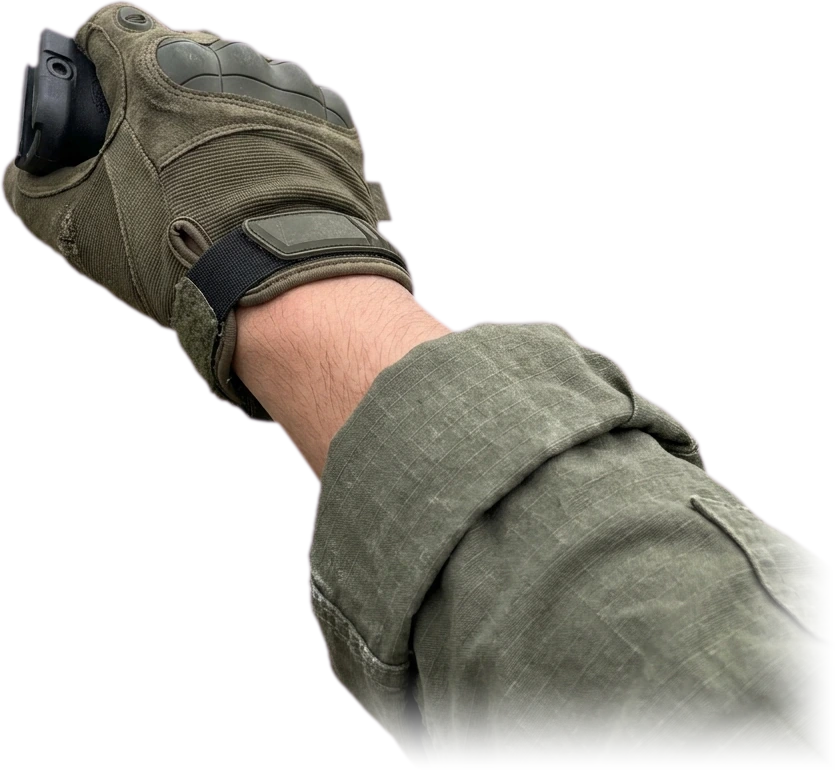
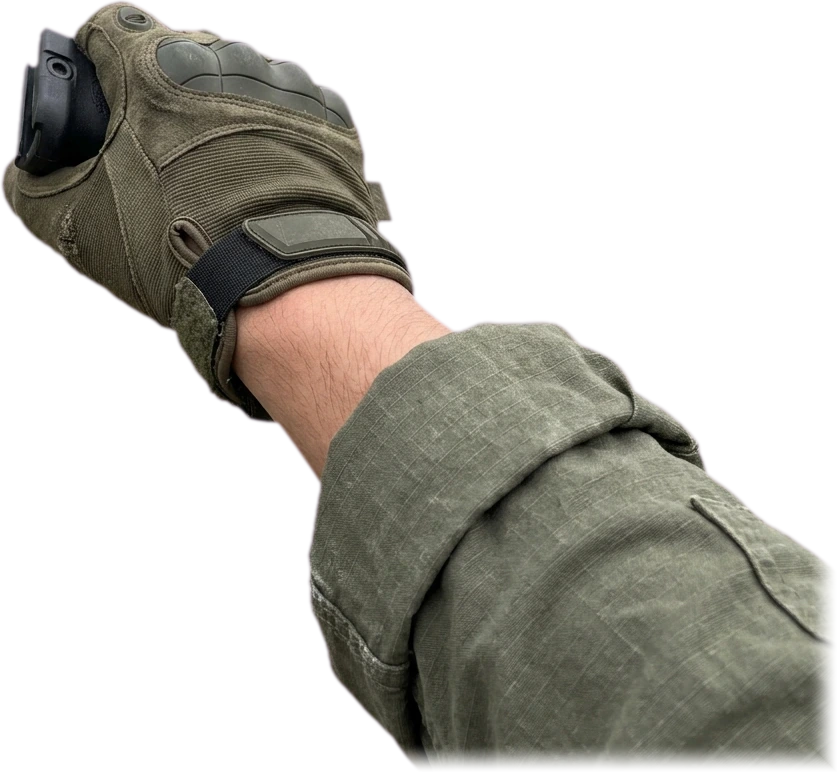
FPS 모바일 겹침·멈칫 해결, 저격총을 완전히 다른 총(사진 볼트액션)으로, 팔 소매 잘림 수정
모바일 HUD 겹침 — 폰 에뮬(iPhone 13·Galaxy S9+·iPad Mini 가로)에서 버튼·패널
좌표 교집합을 실측해 전부 0으로.
- 새로 넣은 «자동 달리기» 버튼이 태블릿에서 체력 패널을 덮던 것 → 조이스틱 오른쪽 아래로.
- 원본부터 폰에 있던 겹침 3개(점프↔전체맵, 일시정지↔체력, 미니맵↔무기)도 함께 정리.

모바일 멈칫 — 평균 FPS는 원본과 같았고 «순간 멈칫»이 문제였다(CPU×4 폰 에뮬, 3회 중앙값).
  게임시작 1033→267ms · 첫사격 33→67 · 첫조준 33→50 · 무기교체 83→67 · 평상 17→17
- 첫 사격 프로파일: renderer.compile()만으로는 링크 확인이 «첫 실제 그리기»로 미뤄졌다
  → 로딩 중 숨은 총·화염·탄피·먼지·탄흔을 켜고 한 번 실제로 그린다(메뉴가 가려 안 보임).
- renderer.debug.checkShaderErrors를 배포판에서 끔(프로그램마다 GPU 동기 대기). ?debug만 켬.
- 총알 궤적마다 새 재질 → 공유 재질 하나. 매 발 sprite needsUpdate(불필요) 제거.
- 폰: M4 PBR 2048² 네 장(GPU 85MB) → 1024² 두 장·거칠기/금속은 값, 뷰모델 환경맵 생략,
  벽·바닥 bumpMap 제거.
- 원본에도 사격 중 ~370ms 튐과 병사 팔 IK 비용이 같게 있었다(기준판 프로파일로 확인) — 회귀 아님.

저격총 — M4 몸통 재활용을 버리고 «처음 판처럼 완전히 다른 총»으로.
- 빠나나로 탄색 볼트액션·대형 조준경 실사 사진 생성 → 오프라인 매팅(자주색 0픽셀).
- 생성본에 실제 상표(NF)가 박혀 나와 지웠고, 총구가 반대라 좌우 반전 후 포탑 숫자를 흐렸다.
- 사진 팔 두 장을 손잡이·앞총대에 붙이고 총구 화염 위치를 사진 총구에 맞췄다(발사 캡처로 확인).

팔 소매 — 사진 끝에서 흐려지며 잘려 보이던 것: 가장자리 페이드를 소매 나가는 쪽만 4%로.
(가장자리 픽셀을 늘려 붙이는 방식은 납작한 판자가 생겨 버렸다)

진단 기록: prewarm 결과를 dataset.prewarm에 남긴다 — 조용한 catch가 «안 돌았음»을 숨기지 않게.

Changed region(s): [[0.4029, 0.6822, 0.9917, 0.9922]]

diff --git a/public/fps/client.js b/public/fps/client.js
@@ -1,21 +1,21 @@
-import {polishDepot} from './visual-polish.js?v=photo-4';
-import {upgradeDepot} from './depot-upgrade.js?v=photo-4';
-import {createTacticalMap} from './tactical-map.js?v=photo-4';
-import {createCombatFeedback} from './combat-feedback.js?v=photo-4';
-import {Recoil} from './recoil.js?v=photo-4';
+import {polishDepot} from './visual-polish.js?v=warm-3';
+import {upgradeDepot} from './depot-upgrade.js?v=warm-3';
+import {createTacticalMap} from './tactical-map.js?v=warm-3';
+import {createCombatFeedback} from './combat-feedback.js?v=warm-3';
+import {Recoil} from './recoil.js?v=warm-3';
 const recoilMotion=new Recoil();
-import {createWeaponAudio} from './weapon-audio.js?v=photo-4';
+import {createWeaponAudio} from './weapon-audio.js?v=warm-3';
 const weaponAudio=createWeaponAudio();
 const combatFeedback=createCombatFeedback(weaponAudio);
-import {createControls} from './controls.js?v=photo-4';
-import {createHuman} from './human.js?v=photo-4';
-import {createViewmodel3D} from './viewmodel3d.js?v=photo-4';
-import {createImpacts} from './impacts.js?v=photo-4';
+import {createControls} from './controls.js?v=warm-3';
+import {createHuman} from './human.js?v=warm-3';
+import {createViewmodel3D} from './viewmodel3d.js?v=warm-3';
+import {createImpacts} from './impacts.js?v=warm-3';
 import {enhanceDepot} from './environment.js';
 import * as T from './three.module.js';
-import {Arena,BOXES,clamp,rayBox,wallDistance} from './core.js?v=photo-4';
-const $=s=>document.getElementById(s);let mode='tdm',arena=null,ws=null,myId='',state=null,active=false,yaw=0,pitch=0,fire=false,aim=false,last=performance.now(),acc=0,lastHP=100,feed=[],hitUntil=0,frame=0;const mobile=matchMedia('(pointer: coarse)').matches||navigator.maxTouchPoints>0&&innerWidth<1100;const keys={};$('practice').disabled=true;$('online').disabled=true;T.DefaultLoadingManager.onProgress=(url,n,total)=>{$('status').textContent=`전장 에셋 불러오는 중 ${n} / ${total}`};T.DefaultLoadingManager.onLoad=()=>{$('practice').disabled=false;$('online').disabled=false;$('status').textContent='전투 준비 완료 · 모바일 자동 달리기 / PC WASD'};
-let renderer;try{renderer=new T.WebGLRenderer({canvas:$('scene'),antialias:!mobile})}catch(error){$('status').textContent='3D 그래픽을 시작할 수 없습니다. 브라우저의 하드웨어 가속을 켜고 다시 접속하세요.';throw error}renderer.setPixelRatio(Math.min(devicePixelRatio,mobile?1:1.25));renderer.setSize(innerWidth,innerHeight);renderer.shadowMap.enabled=!mobile;renderer.shadowMap.type=T.PCFShadowMap;renderer.toneMapping=T.ACESFilmicToneMapping;renderer.toneMappingExposure=1.24;
+import {Arena,BOXES,clamp,rayBox,wallDistance} from './core.js?v=warm-3';
+const $=s=>document.getElementById(s);let mode='tdm',arena=null,ws=null,myId='',state=null,active=false,yaw=0,pitch=0,fire=false,aim=false,last=performance.now(),acc=0,lastHP=100,feed=[],hitUntil=0,frame=0;const mobile=matchMedia('(pointer: coarse)').matches||navigator.maxTouchPoints>0&&innerWidth<1100;const keys={};$('practice').disabled=true;$('online').disabled=true;T.DefaultLoadingManager.onProgress=(url,n,total)=>{$('status').textContent=`전장 에셋 불러오는 중 ${n} / ${total}`};T.DefaultLoadingManager.onLoad=()=>{/* 셰이더를 전투 중이 아니라 로딩 화면에서 컴파일 — 첫 사격·첫 조준 멈칫 제거 */try{const warmLine=new T.Line(new T.BufferGeometry().setFromPoints([new T.Vector3(0,1,0),new T.Vector3(0,1,-1)]),tracerMat);scene.add(warmLine);impacts.prewarm(renderer,scene,camera);scene.remove(warmLine);warmLine.geometry.dispose();viewmodel.prewarm();document.documentElement.dataset.prewarm='ok'}catch(e){document.documentElement.dataset.prewarm='err:'+(e&&e.message)}document.documentElement.dataset.prewarmRuns=String((+document.documentElement.dataset.prewarmRuns||0)+1);$('practice').disabled=false;$('online').disabled=false;$('status').textContent='전투 준비 완료 · 모바일 자동 달리기 / PC WASD'};
+let renderer;try{renderer=new T.WebGLRenderer({canvas:$('scene'),antialias:!mobile})}catch(error){$('status').textContent='3D 그래픽을 시작할 수 없습니다. 브라우저의 하드웨어 가속을 켜고 다시 접속하세요.';throw error}renderer.setPixelRatio(Math.min(devicePixelRatio,mobile?1:1.25));/* 셰이더 오류 검사는 프로그램마다 GPU를 동기로 기다리게 한다 — 첫 사격 멈칫(프로파일: getProgramInfoLog 166ms)의 원인. 배포판은 끄고 ?debug 에서만 켠다 */renderer.debug.checkShaderErrors=location.search.includes('debug');renderer.setSize(innerWidth,innerHeight);renderer.shadowMap.enabled=!mobile;renderer.shadowMap.type=T.PCFShadowMap;renderer.toneMapping=T.ACESFilmicToneMapping;renderer.toneMappingExposure=1.24;
 const scene=new T.Scene();scene.background=new T.Color('#7a929d');scene.fog=new T.FogExp2('#8998a1',.008);const camera=new T.PerspectiveCamera(78,innerWidth/innerHeight,.05,170);camera.rotation.order='YXZ';scene.add(camera);// 그림자를 켜면 지붕 아래가 통째로 그늘이 된다. 그늘에서도 읽히도록 환경광을 올린다.
 scene.add(new T.HemisphereLight('#dceaff','#5d5b46',2.95));const sun=new T.DirectionalLight('#ffe5b0',3.1);sun.position.set(-18,30,16);sun.castShadow=true;sun.shadow.mapSize.set(mobile?1024:2048,mobile?1024:2048);// 그림자 상자를 좁게 잡고 플레이어를 따라 옮긴다. 맵 전체(±35)를 한 장에 담으면 텍셀이 굵어 접지가 뭉갠다.
 Object.assign(sun.shadow.camera,{left:-19,right:19,top:19,bottom:-19,near:1,far:78});sun.shadow.bias=-.0009;sun.shadow.normalBias=.02;scene.add(sun);scene.add(sun.target);const SUN_OFFSET=new T.Vector3(-16,26,14);
@@ -26,12 +26,12 @@ function box(w,h,d,mat,x,y,z,parent=scene){let m=new T.Mesh(new T.BoxGeometry(w,
 box(50,.3,54,'ground',0,-.16,0);for(const b of BOXES){box(b[3],b[4],b[5],b[6],b[0],b[1],b[2]);if(['blue','red','olive'].includes(b[6])){for(let x=-b[3]/2+.15;x<b[3]/2;x+=.45)for(let side of [-1,1])box(.065,b[4]-.16,.06,'metal',b[0]+x,b[1],b[2]+side*(b[5]/2+.02));for(let z=-b[5]/2+.15;z<b[5]/2;z+=.45)for(let side of [-1,1])box(.06,b[4]-.16,.065,'metal',b[0]+side*(b[3]/2+.02),b[1],b[2]+z);for(let s of [-1,1])box(b[3]+.1,.12,b[5]+.1,'metal',b[0],b[1]+s*b[4]/2,b[2]);}if(b[6]==='crate')for(let s of [-1,1])box(b[3]+.04,.15,b[5]+.04,'tan',b[0],b[1]+s*(b[4]/2-.3),b[2]);}
 for(let z=-24;z<25;z+=6){box(.25,8,.25,'metal',-22,4,z);box(.25,8,.25,'metal',22,4,z);box(45,.25,.25,'metal',0,8,z)}box(13,.2,52,'metal',-17,8.1,0);box(13,.2,52,'metal',17,8.1,0);const lamp=new T.MeshBasicMaterial({color:'#fff0bc'});for(let z=-22;z<24;z+=8)for(let x of [-17,17])box(1.3,.04,.13,lamp,x,7.85,z);for(let z=-24;z<24;z+=3)for(let x of [-4,4])box(.1,.014,1.4,'tan',x,.01,z);
 function label(text,x,z){const c=document.createElement('canvas');c.width=256;c.height=128;const ctx=c.getContext('2d');ctx.fillStyle='#273536';ctx.fillRect(0,0,256,128);ctx.font='bold 52px Arial';ctx.fillStyle='#c4d2bd';ctx.textAlign='center';ctx.fillText(text,128,86);let m=new T.Mesh(new T.PlaneGeometry(3,1.5),new T.MeshBasicMaterial({map:new T.CanvasTexture(c),side:T.DoubleSide}));m.position.set(x,2,z);scene.add(m)}label('SECTOR A',-10,-2.96);label('SECTOR B',10,15.04);
-enhanceDepot(scene,mats,box,BOXES);upgradeDepot(scene,mats,box,BOXES);polishDepot(scene,mats,box,BOXES);let lightIndex=0;for(const light of [...scene.children])if(light.isPointLight&&(mobile||lightIndex++%3!==0))scene.remove(light);if(mobile)scene.environment=null;
+enhanceDepot(scene,mats,box,BOXES);upgradeDepot(scene,mats,box,BOXES);polishDepot(scene,mats,box,BOXES);/* 폰은 벽·바닥 요철을 뺀다 — 화면 전체 픽셀마다 미분 계산이 붙어 GPU를 먹는다 */if(mobile){for(const k in mats)if(mats[k].bumpMap){mats[k].bumpMap=null;mats[k].needsUpdate=true}}let lightIndex=0;for(const light of [...scene.children])if(light.isPointLight&&(mobile||lightIndex++%3!==0))scene.remove(light);if(mobile)scene.environment=null;
 // Batch repeated static warehouse parts without changing cover geometry.
 const batches=new Map();for(let mesh of [...scene.children]){if(!mesh.isMesh||mesh.geometry.type!=='BoxGeometry'||mesh.material.transparent)continue;let key=mesh.material.uuid+JSON.stringify(mesh.geometry.parameters);if(!batches.has(key))batches.set(key,[]);batches.get(key).push(mesh)}for(let list of batches.values()){if(list.length<3)continue;let batch=new T.InstancedMesh(list[0].geometry,list[0].material,list.length);list.forEach((mesh,i)=>{mesh.updateMatrix();batch.setMatrixAt(i,mesh.matrix);scene.remove(mesh);if(i>0)mesh.geometry.dispose()});batch.castShadow=true;batch.receiveShadow=true;batch.computeBoundingSphere();scene.add(batch)}
 
 // 총과 총구 화염은 viewmodel3d.js가 전용 씬에서 그린다. 여기엔 두지 않는다.
-const impacts=createImpacts(scene);
+const impacts=createImpacts(scene);const tracerMat=new T.LineBasicMaterial({color:'#ffe9a0',transparent:true,opacity:.85,blending:T.AdditiveBlending,depthWrite:false});
 const models=new Map(),traces=[];
 
 function nameTag(p){let c=document.createElement('canvas');c.width=256;c.height=64;let ctx=c.getContext('2d');ctx.fillStyle='#091014b0';ctx.fillRect(0,0,256,64);ctx.font='bold 25px Arial';ctx.fillStyle=p.team===0?'#ffac9e':'#a4d8ff';ctx.textAlign='center';ctx.fillText(p.name,128,42);let sprite=new T.Sprite(new T.SpriteMaterial({map:new T.CanvasTexture(c),depthTest:true}));sprite.scale.set(1.3,.325,1);sprite.position.y=2.05;return sprite;}function soldier(p){let tag=nameTag(p);tag.scale.set(1.8,.45,1);tag.position.y=2.2;let g=createHuman(p,tag);if(!g){tag.material.map.dispose();tag.material.dispose();return null}scene.add(g);models.set(p.id,g);return g}
@@ -48,7 +48,7 @@ let lookDX=0,lookDY=0; // 이번 프레임에 돌린 시선량. 총이 뒤따라
 const controls=createControls({look:(x,y,zoom)=>{const sensitivity=zoom?(controls.weapon==='sniper'?.00055:.0012):mobile?.003:.002;yaw-=x*sensitivity;pitch=clamp(pitch-y*sensitivity,-1.4,1.4);lookDX+=x*sensitivity*57;lookDY+=y*sensitivity*57},shoot:()=>{weaponAudio.unlock();if(ws?.readyState===1)ws.send(JSON.stringify({type:'input',input:input()}))},weaponChanged:()=>{aim=false},pauseChanged:value=>{$('pause').hidden=!value||!active}});
 const tacticalMap=createTacticalMap({getState:()=>state,getId:()=>myId,controls,isActive:()=>active});
 function input(){return {...controls.input(),yaw:yaw+recoilMotion.yaw,pitch:clamp(pitch+recoilMotion.pitch,-1.4,1.4)}}
-function apply(s){let before=state?.players.find(p=>p.id===myId),current=s.players.find(p=>p.id===myId);if(current&&(!before||(before.hp<=0&&current.hp>0))){yaw=current.yaw;pitch=0;recoilMotion.reset();viewmodel.reset()}state=s;for(let e of s.events||[]){if(e.type==='shot'){if(e.id===myId){recoilMotion.shot(e.weapon,aim);viewmodel.shot(e.weapon);weaponAudio.shot(e.weapon);if(e.hit){hitUntil=performance.now()+130;sound(1200,.06,.05)}}else {const listener=state.players.find(p=>p.id===myId);const distance=listener?Math.hypot(listener.x-e.o[0],listener.z-e.o[2]):30;const b=bearing(listener,e.o[0],e.o[2]);weaponAudio.shot(e.weapon,Math.min(.28,2.3/(distance+5)),b.pan,b.muffle);models.get(e.id)?.userData.shot?.();}const a=new T.Vector3(...e.o),dir=new T.Vector3(...e.d),b=a.clone().addScaledVector(dir,e.distance);if(e.distance<70)impacts.hit(b,dir,!!e.hit);if(e.hit===myId&&e.id!==myId){const me=s.players.find(q=>q.id===myId);if(me)hurts.push({ang:bearing(me,e.o[0],e.o[2]).ang,until:performance.now()+1500})}let line=new T.Line(new T.BufferGeometry().setFromPoints([a,b]),new T.LineBasicMaterial({color:'#ffe9a0',transparent:true,opacity:.85,blending:T.AdditiveBlending,depthWrite:false}));scene.add(line);traces.push({line,ttl:.11});}else if(e.type==='kill'){if(e.killerId===myId){combatFeedback.kill(e);hitUntil=performance.now()+420;$('hitmarker').classList.add('confirmed');setTimeout(()=>$('hitmarker').classList.remove('confirmed'),420);}feed.unshift({text:`${e.name}  ${e.head?'⌖':'▸'}  ${e.victim}`,until:performance.now()+5000});feed=feed.slice(0,5)}}}
+function apply(s){let before=state?.players.find(p=>p.id===myId),current=s.players.find(p=>p.id===myId);if(current&&(!before||(before.hp<=0&&current.hp>0))){yaw=current.yaw;pitch=0;recoilMotion.reset();viewmodel.reset()}state=s;for(let e of s.events||[]){if(e.type==='shot'){if(e.id===myId){recoilMotion.shot(e.weapon,aim);viewmodel.shot(e.weapon);weaponAudio.shot(e.weapon);if(e.hit){hitUntil=performance.now()+130;sound(1200,.06,.05)}}else {const listener=state.players.find(p=>p.id===myId);const distance=listener?Math.hypot(listener.x-e.o[0],listener.z-e.o[2]):30;const b=bearing(listener,e.o[0],e.o[2]);weaponAudio.shot(e.weapon,Math.min(.28,2.3/(distance+5)),b.pan,b.muffle);models.get(e.id)?.userData.shot?.();}const a=new T.Vector3(...e.o),dir=new T.Vector3(...e.d),b=a.clone().addScaledVector(dir,e.distance);if(e.distance<70)impacts.hit(b,dir,!!e.hit);if(e.hit===myId&&e.id!==myId){const me=s.players.find(q=>q.id===myId);if(me)hurts.push({ang:bearing(me,e.o[0],e.o[2]).ang,until:performance.now()+1500})}let line=new T.Line(new T.BufferGeometry().setFromPoints([a,b]),tracerMat);scene.add(line);traces.push({line,ttl:.11});}else if(e.type==='kill'){if(e.killerId===myId){combatFeedback.kill(e);hitUntil=performance.now()+420;$('hitmarker').classList.add('confirmed');setTimeout(()=>$('hitmarker').classList.remove('confirmed'),420);}feed.unshift({text:`${e.name}  ${e.head?'⌖':'▸'}  ${e.victim}`,until:performance.now()+5000});feed=feed.slice(0,5)}}}
 function lock(){weaponAudio.unlock();audio?.resume();controls.resume()}
 function begin(local){weaponAudio.unlock();tacticalMap.close(false);combatFeedback.reset();viewmodel.reset();impacts.reset();hurts=[];footAcc=0;$('status').textContent='';myId=local?'you':'';active=true;controls.enabled=true;controls.trigger=0;controls.reloadTrigger=0;controls.reset();lastHP=100;$('menu').hidden=true;$('hud').hidden=false;$('pause').hidden=false;$('connection').textContent=local?'BOT TRAINING':'LIVE MULTIPLAYER';$('mode-label').textContent=mode==='tdm'?'TEAM DEATHMATCH':'FREE FOR ALL';$('goal').textContent=mode==='tdm'?'목표 50 KILLS':'목표 25 KILLS';if(local){arena=new Arena(mode,5);arena.add(myId,$('name').value);apply(arena.snapshot());$('ping').textContent='쉬운 훈련 · 봇 5명';lock()}}
 function leave(message=''){tacticalMap.close(false);controls.enabled=false;controls.reset();active=false;arena=null;state=null;const old=ws;ws=null;old?.close();document.exitPointerLock();$('menu').hidden=false;$('hud').hidden=true;$('status').textContent=message;$('online').disabled=false;for(const g of models.values()){scene.remove(g);g.userData.dispose?.()}models.clear();feed=[];fire=false}
@@ -64,7 +64,7 @@ function animate(now){const cpuStart=performance.now();requestAnimationFrame(ani
  if(uiClock>=.1){uiClock=0;ui(p);targetHint(p)}for(let q of state.players){if(q.id===myId)continue;let g=models.get(q.id)||soldier(q);if(!g)continue;g.visible=q.hp>0||q.respawn>1;/* 가까운 적의 발소리 — 보이지 않아도 다가오는 걸 알 수 있게. */{const fd=Math.hypot(q.x-(g.userData.fx??q.x),q.z-(g.userData.fz??q.z));g.userData.fx=q.x;g.userData.fz=q.z;if(q.hp>0&&fd<1.5){g.userData.fa=(g.userData.fa||0)+fd;if(g.userData.fa>=1.8){g.userData.fa=0;const away=Math.hypot(q.x-p.x,q.z-p.z);if(away<18){const bb=bearing(p,q.x,q.z);weaponAudio.step(Math.min(.7,2.6/(away+3)),bb.pan,bb.muffle)}}}}if(!g.visible)continue;tempPosition.set(q.x,q.y-1.65,q.z);if(g.position.distanceToSquared(tempPosition)>16)g.position.copy(tempPosition);else g.position.lerp(tempPosition,1-Math.exp(-18*dt));let delta=Math.atan2(Math.sin(q.yaw-g.rotation.y),Math.cos(q.yaw-g.rotation.y));g.rotation.y+=delta*(1-Math.exp(-15*dt));g.userData.animate?.({...q,x:g.position.x,z:g.position.z},dt)}for(let [id,g]of models)if(!state.players.some(q=>q.id===id)){scene.remove(g);g.userData.dispose?.();models.delete(id)}
  $('scene').dataset.updateMs=(performance.now()-cpuStart).toFixed(1);$('scene').dataset.pitch=inp.pitch.toFixed(3);$('scene').dataset.yaw=inp.yaw.toFixed(3);const renderStart=performance.now();renderer.render(scene,camera);$('scene').dataset.renderMs=(performance.now()-renderStart).toFixed(1);$('scene').dataset.triangles=renderer.info.render.triangles;$('scene').dataset.calls=renderer.info.render.calls;viewmodel.render(p,dt,{aim,sprint:inp.sprint,moving,scoped,lookX:lookDX,lookY:lookDY});lookDX=lookDY=0;
  }
- for(let i=traces.length-1;i>=0;i--){let t=traces[i];t.ttl-=dt;if(t.ttl<=0){scene.remove(t.line);t.line.geometry.dispose();t.line.material.dispose();traces.splice(i,1)}}impacts.update(dt);
+ for(let i=traces.length-1;i>=0;i--){let t=traces[i];t.ttl-=dt;if(t.ttl<=0){scene.remove(t.line);t.line.geometry.dispose();traces.splice(i,1)}}impacts.update(dt);
  if(performanceClock>=3){let fps=Math.round(performanceFrames/performanceClock);$('fps-counter').textContent=fps+' FPS';if(fps<38&&qualityLevel>.65){qualityLevel=Math.max(.65,qualityLevel-.15);renderer.setPixelRatio(qualityLevel);renderer.setSize(innerWidth,innerHeight)}/* 해상도를 다 낮췄는데도 느리면 그림자를 끈다. 재질을 다시 컴파일해야 실제로 꺼진다. */else if(fps<30&&renderer.shadowMap.enabled){renderer.shadowMap.enabled=false;scene.traverse(n=>{if(n.isMesh&&n.material)n.material.needsUpdate=true})}performanceClock=0;performanceFrames=0}
 }requestAnimationFrame(animate);
 

diff --git a/public/fps/index.html b/public/fps/index.html
@@ -1,4 +1,4 @@
-<!doctype html><html lang="ko"><head><meta charset="utf-8"><meta name="viewport" content="width=device-width,initial-scale=1,viewport-fit=cover"><title>IRON SECTOR</title><link rel="stylesheet" href="style.css?v=photo-4"></head><body>
+<!doctype html><html lang="ko"><head><meta charset="utf-8"><meta name="viewport" content="width=device-width,initial-scale=1,viewport-fit=cover"><title>IRON SECTOR</title><link rel="stylesheet" href="style.css?v=warm-3"></head><body>
 <canvas id="scene"></canvas><div id="vignette"></div>
 <section id="menu"><header><a class="brand">I / S <span>IRON SECTOR</span></a><span class="build">TACTICAL MULTIPLAYER • FIELD UPDATE</span></header><div class="menu-body"><div class="eyebrow"><i></i> OPERATION 01 / CONTAINER DEPOT</div><h1>IRON<br><em>SECTOR.</em></h1><p class="subtitle">전장에 들어서는 순간, 승부가 시작된다.</p><div class="setup"><label for="name">CALLSIGN / 닉네임</label><input id="name" maxlength="16" value="ROOKIE" autocomplete="off"><div class="modes"><button id="tdm" class="selected"><b>01</b> 팀 데스매치 <small>RED vs BLUE · 50 KILLS</small></button><button id="ffa"><b>02</b> 개인 데스매치 <small>FREE FOR ALL · 25 KILLS</small></button></div><label for="weapon-select">무기 선택</label><select id="weapon-select"><option value="rifle">AR-4 돌격소총 · 연사 / 30발</option><option value="sniper">SR-7 저격총 · 단발 / 5발</option></select><div class="row"><label>방 코드<input id="room" maxlength="20" value="DEPOT-01"></label><label>서버 주소<input id="server" placeholder="wss://game.kimju.kr/ws"></label></div><button class="primary" id="online">온라인 전투 참가 <span>↗</span></button><button class="practice" id="practice">쉬운 봇 5명과 연습하기 <span>로컬 훈련 →</span></button><p id="status" role="status">모바일: 왼쪽 이동 · 오른쪽 드래그 조준 · 사격 버튼</p></div></div><aside class="map-caption"><span>ACTIVE MAP</span><h2>THE DEPOT</h2><p>물류기지 / 근접 · 중거리 교전</p><div>01 ━━━━━ 02 ━ 03</div></aside><footer><span><kbd>W A S D</kbd> 이동 <kbd>마우스</kbd> 조준 / 사격 <kbd>R</kbd> 재장전</span><span>5 MINUTES. EVERY SHOT COUNTS.</span></footer></section>
-<div id="hud" hidden><div id="look-pad" aria-label="드래그하여 조준"></div><div id="mobile-controls"><div id="move-stick" aria-label="이동 조이스틱"><span id="stick-knob"></span></div><button id="touch-fire" aria-label="사격">사격</button><button id="touch-aim" aria-label="조준 확대">조준</button><button id="touch-reload" aria-label="재장전">장전</button><button id="touch-jump" aria-label="점프">점프</button><button id="touch-sprint" aria-label="자동 달리기 켜기 또는 끄기" aria-pressed="true">자동 달리기 ON</button></div><button id="weapon-switch" aria-label="무기 변경">AR-4 ↔</button><button id="pause-button" aria-label="일시 정지 메뉴">Ⅱ</button><span id="fps-counter"></span><div class="match"><span class="red" id="redscore">0</span><div><b id="mode-label">TEAM DEATHMATCH</b><strong id="timer">05:00</strong><small id="goal">목표 50 KILLS</small></div><span class="blue" id="bluescore">0</span></div><div class="location">THE DEPOT <span id="connection">TRAINING</span><small id="ping">서버 연결 중</small></div><canvas id="minimap" width="180" height="180"></canvas><div id="feed"></div><div id="scope" hidden><i></i><i></i></div><div id="target-label"></div><div id="crosshair"><i></i><i></i><i></i><i></i></div><div id="hitmarker">×</div><div id="hurt" aria-hidden="true"></div><div class="health"><small id="team">RED TEAM</small><strong><span id="hp">100</span> <small>HP</small></strong><div><i id="hpbar"></i></div><p id="kd">0 K / 0 D</p></div><div class="weapon"><small id="weapon-type">ASSAULT RIFLE</small><b id="weapon-title">AR-4</b><strong id="ammo">30 <small>/ ∞</small></strong><p id="reload">AUTOMATIC</p></div><div class="controls"><kbd>R</kbd> 재장전　<kbd>SHIFT</kbd> 달리기　<kbd>SPACE</kbd> 점프　<kbd>TAB</kbd> 점수판　<kbd>1 / 2</kbd> 무기　<kbd>ESC</kbd> 메뉴</div><div id="death" hidden><b>DOWN.</b><p id="respawn">3초 후 재투입</p></div><div id="board" hidden><h2>OPERATION REPORT</h2><div id="rows"></div></div><div id="pause" hidden><h2>전투 일시 해제</h2><p>온라인 매치는 계속 진행됩니다.</p><button class="primary" id="resume">전투 복귀 ↗</button><button class="practice" id="touch-resume">터치 / 드래그로 플레이</button><button class="practice" id="leave">로비로 나가기</button></div></div><script type="importmap">{"imports":{"three":"./three.module.js"}}</script><script type="module" src="client.js?v=photo-4"></script></body></html>
+<div id="hud" hidden><div id="look-pad" aria-label="드래그하여 조준"></div><div id="mobile-controls"><div id="move-stick" aria-label="이동 조이스틱"><span id="stick-knob"></span></div><button id="touch-fire" aria-label="사격">사격</button><button id="touch-aim" aria-label="조준 확대">조준</button><button id="touch-reload" aria-label="재장전">장전</button><button id="touch-jump" aria-label="점프">점프</button><button id="touch-sprint" aria-label="자동 달리기 켜기 또는 끄기" aria-pressed="true">자동 달리기 ON</button></div><button id="weapon-switch" aria-label="무기 변경">AR-4 ↔</button><button id="pause-button" aria-label="일시 정지 메뉴">Ⅱ</button><span id="fps-counter"></span><div class="match"><span class="red" id="redscore">0</span><div><b id="mode-label">TEAM DEATHMATCH</b><strong id="timer">05:00</strong><small id="goal">목표 50 KILLS</small></div><span class="blue" id="bluescore">0</span></div><div class="location">THE DEPOT <span id="connection">TRAINING</span><small id="ping">서버 연결 중</small></div><canvas id="minimap" width="180" height="180"></canvas><div id="feed"></div><div id="scope" hidden><i></i><i></i></div><div id="target-label"></div><div id="crosshair"><i></i><i></i><i></i><i></i></div><div id="hitmarker">×</div><div id="hurt" aria-hidden="true"></div><div class="health"><small id="team">RED TEAM</small><strong><span id="hp">100</span> <small>HP</small></strong><div><i id="hpbar"></i></div><p id="kd">0 K / 0 D</p></div><div class="weapon"><small id="weapon-type">ASSAULT RIFLE</small><b id="weapon-title">AR-4</b><strong id="ammo">30 <small>/ ∞</small></strong><p id="reload">AUTOMATIC</p></div><div class="controls"><kbd>R</kbd> 재장전　<kbd>SHIFT</kbd> 달리기　<kbd>SPACE</kbd> 점프　<kbd>TAB</kbd> 점수판　<kbd>1 / 2</kbd> 무기　<kbd>ESC</kbd> 메뉴</div><div id="death" hidden><b>DOWN.</b><p id="respawn">3초 후 재투입</p></div><div id="board" hidden><h2>OPERATION REPORT</h2><div id="rows"></div></div><div id="pause" hidden><h2>전투 일시 해제</h2><p>온라인 매치는 계속 진행됩니다.</p><button class="primary" id="resume">전투 복귀 ↗</button><button class="practice" id="touch-resume">터치 / 드래그로 플레이</button><button class="practice" id="leave">로비로 나가기</button></div></div><script type="importmap">{"imports":{"three":"./three.module.js"}}</script><script type="module" src="client.js?v=warm-3"></script></body></html>

diff --git a/public/fps/viewmodel3d.js b/public/fps/viewmodel3d.js
@@ -1,13 +1,13 @@
-import {realWeapon} from './weapon-model.js?v=photo-4';
+import {realWeapon} from './weapon-model.js?v=warm-3';
 import * as T from './three.module.js';
-import {weaponPose,RIGS} from './weapon-pose.js?v=photo-4';
+import {weaponPose,RIGS} from './weapon-pose.js?v=warm-3';
 
 // 진짜 3D 뷰모델. 전용 씬·전용 카메라로 본편 위에 덧그리기 때문에 벽에 총이 파묻히지 않는다.
 
 // 전술장갑 원단 사진. 같은 그림을 요철로도 써서 짜임이 빛을 받는다.
 let fabricTex=null;
 if(typeof document!=='undefined'){
- fabricTex=new T.TextureLoader().load('glove-fabric.webp?v=photo-4');
+ fabricTex=new T.TextureLoader().load('glove-fabric.webp?v=warm-3');
  fabricTex.colorSpace=T.SRGBColorSpace;
  fabricTex.wrapS=fabricTex.wrapT=T.MirroredRepeatWrapping;
  fabricTex.repeat.set(3.2,3.2);fabricTex.anisotropy=4;
@@ -101,12 +101,17 @@ function gripHand(parent,mats,pos,rot,elbow,tight=1,mirror=false){
 const armTex={};
 // anchor = 사진 속 주먹 자리(0~1, 왼쪽 위 기준). 판을 그 점이 원점이 되게 옮겨 두므로,
 // pos에 주먹이 오고 판을 키워도 주먹은 제자리다. 사진에 조명이 구워져 있어 무조명·톤매핑 제외.
-function photoArm(parent,file,w,h,anchor,pos,rot){
+function photoArm(parent,file,w,h,anchor,pos,rot,ext){
  if(typeof document==='undefined')return null;
  let tex=armTex[file];
- if(!tex){tex=armTex[file]=new T.TextureLoader().load(file+'?v=photo-4');tex.colorSpace=T.SRGBColorSpace;tex.anisotropy=4}
+ if(!tex){tex=armTex[file]=new T.TextureLoader().load(file+'?v=warm-3');tex.colorSpace=T.SRGBColorSpace;tex.anisotropy=4}
  const mat=new T.MeshBasicMaterial({map:tex,transparent:true,alphaTest:.02,side:T.DoubleSide,toneMapped:false,color:'#cfcfc8'});
- const geo=new T.PlaneGeometry(w,h);geo.translate(-(anchor[0]-.5)*w,-(.5-anchor[1])*h,0);
+ // ext=[왼,아래,오른]: 사진 밖으로 판을 늘릴 비율. 늘어난 자리는 가장자리 픽셀이 번져 채워진다(ClampToEdge) —
+ // 소매가 사진 끝에서 뚝 끊기거나 흐려지지 않고 화면 밖까지 이어진다. 원래 사진 영역의 UV는 그대로 0~1.
+ const e=ext||[0,0,0],W=w*(1+e[0]+e[2]),H=h*(1+e[1]);
+ const geo=new T.PlaneGeometry(W,H),uv=geo.attributes.uv;
+ for(let i=0;i<uv.count;i++)uv.setXY(i,uv.getX(i)*(1+e[0]+e[2])-e[0],uv.getY(i)*(1+e[1])-e[1]);
+ geo.translate(w*(e[2]-e[0])/2-(anchor[0]-.5)*w,-h*e[1]/2-(.5-anchor[1])*h,0);
  const arm=new T.Mesh(geo,mat);
  arm.position.set(pos[0],pos[1],pos[2]);arm.rotation.set(rot[0],rot[1],rot[2]);
  parent.add(arm);
@@ -128,25 +133,17 @@ function buildRifle(mats){
  return m;
 }
 function buildSniper(mats){
- const m=realWeapon('sniper'),g=m.group,sy=RIGS.sniper.sight.y;
- // Scoped precision variant of the imported receiver, with a free-floating long barrel.
- cy(g,mats,'blued',.0125,.0125,.29,0,.03,-.715,'z',32);
- cy(g,mats,'steel',.021,.021,.045,0,.03,-.85,'z',32);
- cy(g,mats,'blued',.024,.024,.28,0,sy,-.11,'z',40);
- cy(g,mats,'blued',.035,.024,.075,0,sy,-.285,'z',40);
- cy(g,mats,'blued',.030,.025,.06,0,sy,.05,'z',40);
- cy(g,mats,'lens',.031,.031,.003,0,sy,-.324,'z',40);
- cy(g,mats,'lens',.026,.026,.003,0,sy,.081,'z',40);
- for(const z of [-.20,0]){cy(g,mats,'dark',.027,.027,.018,0,sy,z,'z',32);bx(g,mats,'dark',.025,.045,.024,0,sy-.035,z)}
- cy(g,mats,'blued',.013,.013,.018,0,sy+.033,-.06,'y',24);
- cy(g,mats,'blued',.012,.012,.018,.033,sy,-.06,'x',24);
- photoArm(g,'arm-right.webp',.30,.277,[.08,.12],[.020,-.056,.034],[0,0,0]);   // 주먹을 권총손잡이 오른쪽에
- photoArm(g,'arm-left.webp',.46,.46,[.84,.20],[-.026,.028,-.322],[0,0,0]);   // 긴 총열이라 왼손을 더 앞으로
- return m;
+ // 저격총은 M4 몸통을 빌리지 않는다 — 처음 판처럼 «완전히 다른 총»(탄색 볼트액션·대형 조준경)을 실사 사진으로.
+ // 사진 속 기준점(좌우 반전 후): 손잡이 .47,.78 / 앞총대 .27,.37 / 총구 .005,.087
+ const g=new T.Group(),mag=new T.Group(),bolt=new T.Group();g.add(mag,bolt);
+ photoArm(g,'sniper-photo.webp',.62,.385,[.47,.78],[0,-.085,.030],[0,0,0]);
+ photoArm(g,'arm-right.webp',.30,.277,[.08,.12],[.020,-.056,.036],[0,0,0]);
+ photoArm(g,'arm-left.webp',.34,.34,[.84,.20],[-.120,.070,.036],[0,0,0]);
+ return {group:g,parts:{mag,bolt},muzzle:new T.Vector3(-.288,.182,.030)};
 }
 
 export function createViewmodel3D(renderer){
- const scene=new T.Scene();const env=new T.TextureLoader().load('sky-depot.webp');env.mapping=T.EquirectangularReflectionMapping;env.colorSpace=T.SRGBColorSpace;scene.environment=env;scene.environmentIntensity=.85;
+ const scene=new T.Scene();/* 폰은 환경맵(PMREM 생성)을 건너뛴다 — 본편도 폰에선 끄고 있다 */if(!(typeof matchMedia!=='undefined'&&(matchMedia('(pointer: coarse)').matches||navigator.maxTouchPoints>0&&innerWidth<1100))){const env=new T.TextureLoader().load('sky-depot.webp');env.mapping=T.EquirectangularReflectionMapping;env.colorSpace=T.SRGBColorSpace;scene.environment=env;scene.environmentIntensity=.85;}
  const camera=new T.PerspectiveCamera(45,1,.01,6);
  // 뷰모델 전용 조명. 본편 밝기와 무관하게 총이 항상 또렷하게 읽힌다.
  scene.add(new T.HemisphereLight('#d6e6f7','#3a3b33',2.3));
@@ -185,6 +182,8 @@ export function createViewmodel3D(renderer){
  const pos=new T.Vector3(),ejectOffset=new T.Vector3();
 
  return {
+  // 멈칫 방지: 숨어 있는 총·화염·탄피까지 잠깐 켜고 «실제로 한 번 그린다». compile()만으로는 링크 확인이 첫 사격으로 미뤄진다(프로파일 실측).
+  prewarm(){const hidden=[],culled=[];scene.traverse(o=>{if(!o.visible){hidden.push(o);o.visible=true}if(o.isMesh&&o.frustumCulled){culled.push(o);o.frustumCulled=false}});const auto=renderer.autoClear;try{renderer.compile(scene,camera);renderer.autoClear=false;renderer.render(scene,camera)}catch{}renderer.autoClear=auto;for(const o of culled)o.frustumCulled=true;for(const o of hidden)o.visible=false},
   ready:true,
   // 사격 순간: 반동을 밀어 넣고 화염·탄피를 낸다.
   shot(weapon='rifle'){

diff --git a/public/fps/style.css b/public/fps/style.css
@@ -13,3 +13,19 @@ select{width:100%;background:#111a20;border:1px solid #77808570;color:#fff;paddi
 #hurt i::before{content:"";position:absolute;left:-72px;top:-27vmin;width:144px;height:30px;background:radial-gradient(ellipse at 50% 130%,rgba(255,72,54,.95),rgba(255,86,54,.34) 55%,rgba(255,86,54,0) 78%);clip-path:polygon(0 100%,50% 0,100% 100%);filter:drop-shadow(0 0 8px rgba(255,60,40,.55))}
 
 .match{border-radius:8px;box-shadow:0 8px 28px #0004;border-left:1px solid #ddebd01a;border-right:1px solid #ddebd01a}.health,.weapon{padding:12px 16px;border-bottom:2px solid #cddd8c;background:linear-gradient(115deg,#101d25dc,#101d250a);border-radius:8px}.weapon{background:linear-gradient(245deg,#101d25dc,#101d250a)}.health>small,.weapon>small{font-weight:700}.touch-device .health,.touch-device .weapon{padding:6px 9px;border-bottom-width:1px}.touch-device #mobile-controls #touch-sprint{width:84px;height:46px;left:52px;bottom:165px;border-radius:12px;font-size:11px;line-height:1.25;background:#23363de8}.touch-device #touch-sprint.on{background:linear-gradient(135deg,#547342,#2a432c);border-color:#cddd8c;color:#efffd5;box-shadow:0 0 0 2px #b4d58714}.touch-device #touch-fire{box-shadow:0 5px 20px #0006,inset 0 1px 0 #fff6}.touch-device #touch-aim,.touch-device #touch-reload,.touch-device #touch-jump{background:linear-gradient(145deg,#33454dcc,#17262de0)}@media (orientation:landscape) and (max-height:600px){.touch-device #mobile-controls #touch-sprint{left:166px;bottom:30px}.touch-device .health{bottom:166px}.touch-device .weapon{bottom:214px}}
+/* ── 모바일 HUD 겹침 정리 — 폰·태블릿 가로에서 실측으로 겹치던 자리를 뺀다 ── */
+/* 자동 달리기: 조이스틱 오른쪽 아래. 태블릿에서 체력 패널 위에 올라가던 것을 고친다 */
+.touch-device #mobile-controls #touch-sprint{left:calc(max(22px,env(safe-area-inset-left)) + 142px);bottom:max(30px,env(safe-area-inset-bottom))}
+@media (orientation:landscape) and (max-height:600px){
+ .touch-device #mobile-controls #touch-sprint{left:calc(max(22px,env(safe-area-inset-left)) + 142px);bottom:max(30px,env(safe-area-inset-bottom))}
+ /* 왼쪽 위: 지명 → 그 오른쪽에 일시정지, 체력은 지명 바로 아래(조이스틱과 안 닿게 이름표는 숨김) */
+ .touch-device #pause-button{top:14px;left:136px;min-height:38px;padding:6px 10px}
+ .touch-device .health{top:76px;bottom:auto;left:18px}
+ .touch-device .health>small{display:none}
+ /* 오른쪽 위: 미니맵 → 그 왼쪽에 무기 패널, 무기 패널 아래 전체맵 버튼. 점프는 그 아래로 비켜난다 */
+ .touch-device #minimap{top:12px;right:12px;width:76px;height:76px}
+ .touch-device .weapon{top:10px;bottom:auto;right:98px}
+ .touch-device .weapon>small,.touch-device .weapon p{display:none}
+ .touch-device #map-button{top:90px;right:98px;min-height:34px;padding:5px 11px}
+ .touch-device #feed{top:132px}
+}

diff --git a/public/fps/impacts.js b/public/fps/impacts.js
@@ -1,5 +1,5 @@
 import * as T from './three.module.js';
-import {BOXES} from './core.js?v=photo-4';
+import {BOXES} from './core.js?v=warm-3';
 
 // 총알이 닿은 자리의 반응 — 불똥, 먼지, 탄흔, 피격 분출.
 // 모두 미리 만들어 두고 돌려 쓴다. 한 발마다 새로 만들면 연사에서 프레임이 끊긴다.
@@ -94,7 +94,7 @@ export function createImpacts(scene){
  }
  function puff(x,y,z,tex,size,grow,life){
   const d=dusts[dustAt=(dustAt+1)%DUSTS];
-  d.sprite.material.map=tex;d.sprite.material.needsUpdate=true;
+  d.sprite.material.map=tex; /* 같은 종류 텍스처끼리 바꿀 땐 needsUpdate가 필요 없다 — 매 발 재질 재평가(getParameters)를 부르던 원인 */
   d.sprite.position.set(x,y,z);d.sprite.scale.setScalar(size);
   d.sprite.visible=true;d.sprite.material.opacity=.75;
   d.ttl=d.life=life;d.grow=grow;
@@ -102,6 +102,9 @@ export function createImpacts(scene){
 
  return {
   // point = 맞은 자리, dir = 총알이 날아온 방향, flesh = 사람을 맞혔는가
+  // 멈칫 방지: 먼지·탄흔을 잠깐 켜고 «실제로 한 번 그린다». compile()만으로는 링크 확인·유니폼 준비가 첫 실사용(=첫 사격)으로 미뤄진다.
+  // 로딩 중엔 메뉴가 캔버스를 가리고 있어 이 한 장은 보이지 않는다.
+  prewarm(renderer,scene,camera){const on=[...dusts.map(d=>d.sprite),...decals.map(d=>d.mesh)];for(const o of on){o.visible=true;o.frustumCulled=false}try{renderer.compile(scene,camera);renderer.render(scene,camera)}catch{}for(const o of on)o.frustumCulled=true;for(const d of dusts)d.sprite.visible=d.ttl>0;for(const d of decals)d.mesh.visible=d.ttl>0},
   hit(point,dir,flesh){
    const x=point.x,y=point.y,z=point.z;
    if(flesh){

diff --git a/public/fps/weapon-model.js b/public/fps/weapon-model.js
@@ -1,9 +1,13 @@
 import * as T from './three.module.js';
 import {GLTFLoader} from './addons/loaders/GLTFLoader.js';
-import {RIGS} from './weapon-pose.js?v=photo-4';
+import {RIGS} from './weapon-pose.js?v=warm-3';
 const textures=new T.TextureLoader();
-function tex(name,color=false){const t=textures.load('weapons/m4-'+name+'.webp');t.flipY=true;t.anisotropy=4;if(color)t.colorSpace=T.SRGBColorSpace;return t}
-const material=new T.MeshStandardMaterial({map:tex('color',true),normalMap:tex('normal'),roughnessMap:tex('rough'),metalnessMap:tex('metal'),roughness:1,metalness:1,normalScale:new T.Vector2(.65,.65)});
+// 폰은 GPU 메모리가 좁다 — 2048² PBR 네 장(85MB)이 게임 시작·첫 조준 멈칫의 주범이었다. 폰은 1024² 두 장만, 거칠기·금속은 값으로.
+const mobileGPU=typeof matchMedia!=='undefined'&&(matchMedia('(pointer: coarse)').matches||navigator.maxTouchPoints>0&&innerWidth<1100);
+function tex(name,color=false){const t=textures.load('weapons/m4-'+name+(mobileGPU?'-1k':'')+'.webp');t.flipY=true;t.anisotropy=mobileGPU?1:4;if(color)t.colorSpace=T.SRGBColorSpace;return t}
+const material=mobileGPU
+ ?new T.MeshStandardMaterial({map:tex('color',true),normalMap:tex('normal'),roughness:.55,metalness:.75,normalScale:new T.Vector2(.65,.65)})
+ :new T.MeshStandardMaterial({map:tex('color',true),normalMap:tex('normal'),roughnessMap:tex('rough'),metalnessMap:tex('metal'),roughness:1,metalness:1,normalScale:new T.Vector2(.65,.65)});
 const pending=[];let template;
 new GLTFLoader().load('weapons/m4a1.glb',g=>{template=g.scene;for(const mount of pending)mount();pending.length=0});
 // Artist-authored CC0 M4A1, adapted to the existing viewmodel coordinate system.

diff --git a/public/fps/controls.js b/public/fps/controls.js
@@ -1,4 +1,4 @@
-import {mobileSprint} from './movement.js?v=photo-4';
+import {mobileSprint} from './movement.js?v=warm-3';
 export function createControls({look,shoot,weaponChanged,pauseChanged}){
  const $=id=>document.getElementById(id);let mobile=matchMedia('(pointer: coarse)').matches||navigator.maxTouchPoints>0&&innerWidth<1100;const keys={};
  const c={mobile,keys,autoRun:localStorage.getItem('iron-auto-run')!=='off',paused:true,enabled:false,weapon:'rifle',fire:false,aim:false,trigger:0,reloadTrigger:0,f:0,s:0,board:false};let reloadUntil=0,jumpUntil=0,sprintBlockedUntil=0;

diff --git a/public/fps/human.js b/public/fps/human.js
@@ -1,6 +1,6 @@
-import {characterShadow} from './visual-polish.js?v=photo-4';
-import {locomotion} from './movement.js?v=photo-4';
-import {tacticalRig} from './tactical-rig.js?v=photo-4';
+import {characterShadow} from './visual-polish.js?v=warm-3';
+import {locomotion} from './movement.js?v=warm-3';
+import {tacticalRig} from './tactical-rig.js?v=warm-3';
 import * as T from './three.module.js';
 import {GLTFLoader} from './addons/loaders/GLTFLoader.js';
 import {clone} from './addons/utils/SkeletonUtils.js';

diff --git a/public/fps/tactical-map.js b/public/fps/tactical-map.js
@@ -1,4 +1,4 @@
-import {BOXES,SPAWNS} from './core.js?v=photo-4';
+import {BOXES,SPAWNS} from './core.js?v=warm-3';
 export function mapPoint(x,z,width=700,height=756){return {x:(x+25)/50*width,y:(z+27)/54*height}}
 export function mapPlayers(state,id){const me=state?.players.find(p=>p.id===id);return me?state.players.filter(p=>p.hp>0&&(p.id===id||state.mode==='tdm'&&p.team===me.team)):[]}
 export function createTacticalMap({getState,getId,controls,isActive}){

diff --git a/public/fps/tactical-rig.js b/public/fps/tactical-rig.js
@@ -1,5 +1,5 @@
 import * as T from './three.module.js';
-import {createBotRifle} from './bot-rifle.js?v=photo-4';
+import {createBotRifle} from './bot-rifle.js?v=warm-3';
 // Lightweight third-person rifle, with a two-handed aiming pose on the soldier skeleton.
 export function tacticalRig(group,body){
  const rifle=createBotRifle();

diff --git a/public/fps/weapon-audio.js b/public/fps/weapon-audio.js
@@ -1,4 +1,4 @@
-import {createRecordedAudio} from './recorded-audio.js?v=photo-4';
+import {createRecordedAudio} from './recorded-audio.js?v=warm-3';
 // Reusable, layered weapon transients. No audio buffers allocated per shot.
 export function createWeaponAudio(){
  let ctx,noise,sniperBus;const recorded=createRecordedAudio();
